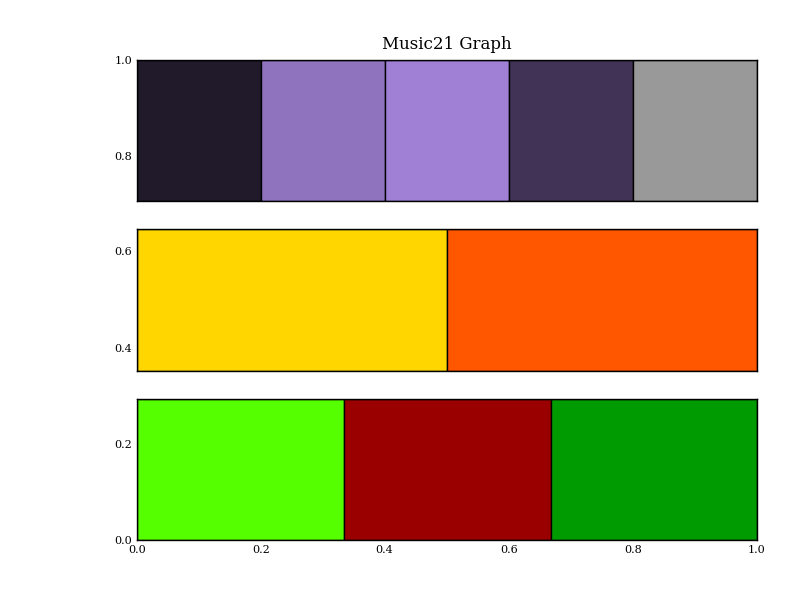
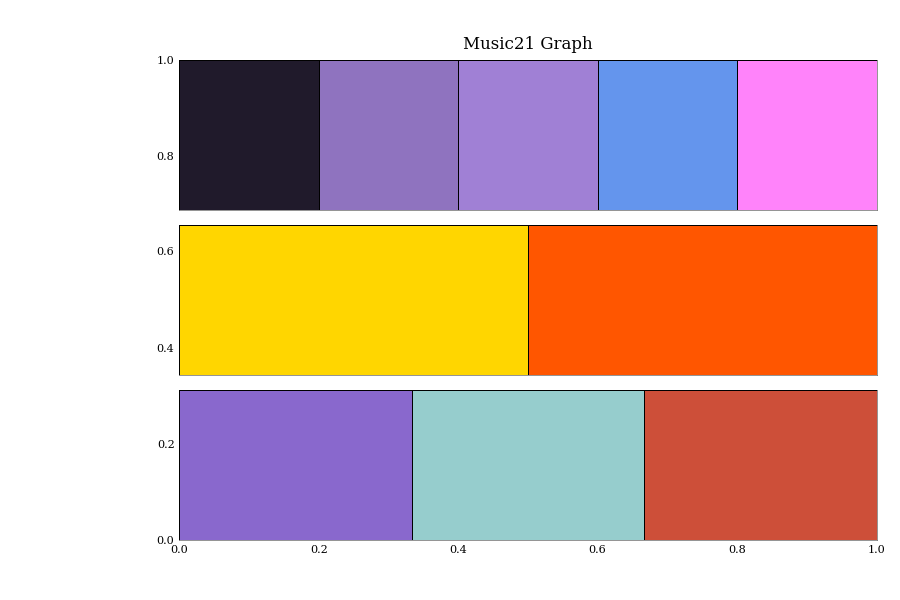
updated documentation graph/plot images
git-svn-id: http://music21.googlecode.com/svn/trunk@769 5c16147e-a200-11de-b0cc-ab0ad15e60d0

diff --git a/music21/graph.py b/music21/graph.py
@@ -2909,20 +2909,15 @@ class TestExternal(unittest.TestCase):
             [(x, random.choice(range(30))) for x in range(50)]),
         (Graph3DPolygonBars, data3DPolygonBars),
         (GraphColorGridLegend, 
-        [('Major', [('C#', '#00AA55'), ('D-', '#5600FF'), ('G#', '#2B00FF')]),
-         ('Minor', [('C#', '#004600'), ('D-', '#00009b'), ('G#', '#00009B')]),]
+        [('Major', [('C', '#00AA55'), ('D', '#5600FF'), ('G', '#2B00FF')]),
+         ('Minor', [('C', '#004600'), ('D', '#00009b'), ('G', '#00009B')]),]
         ),
-        (GraphColorGrid, [['#55FF00', '#9b0000', '#009b00'], 
+        (GraphColorGrid, [['#8968CD', '#96CDCD', '#CD4F39'], 
                 ['#FFD600', '#FF5600'], 
-                ['#201a2b', '#8f73bf', '#a080d5', '#403355', '#999999'],
+                ['#201a2b', '#8f73bf', '#a080d5', '#6495ED', '#FF83FA'],
                ]
         ),
 
-
-        ]
-
-        graphClasses = [
-        
         ]
 
         for graphClassName, data in graphClasses:
@@ -2973,16 +2968,13 @@ class TestExternal(unittest.TestCase):
         (PlotScatterWeightedPitchSpaceQuarterLength, None, None), (PlotScatterWeightedPitchClassQuarterLength, None, None),
         # 3d graphs
         (Plot3DBarsPitchSpaceQuarterLength, testFiles.mozartTrioK581Excerpt, 'Mozart Trio K581 Excerpt'),
-        ]
-
-        sDefault = corpus.parseWork('bach/bwv57.8')
-
-        plotClasses = [
 
         (PlotWindowedKrumhanslSchmuckler, corpus.getWork('bach/bwv66.6.xml'), 'Bach BWV 66.6'),
         (PlotWindowedSadoianAmbitus, corpus.getWork('bach/bwv66.6.xml'), 'Bach BWV 66.6'),
 
         ]
+
+        sDefault = corpus.parseWork('bach/bwv57.8')
 
         for plotClassName, work, titleStr in plotClasses:
             if work == None:
@@ -3228,10 +3220,10 @@ if __name__ == "__main__":
 
         #a.writeGraphColorGrid()
         #a.writeAllGraphs()
-        #a.writeAllPlots()
+        a.writeAllPlots()
 
 
-        b.testColorGridLegend('write')
+        #b.testColorGridLegend('write')
         #b.testPlotWindowed('write')
 
         #a.writeAllPlots()
